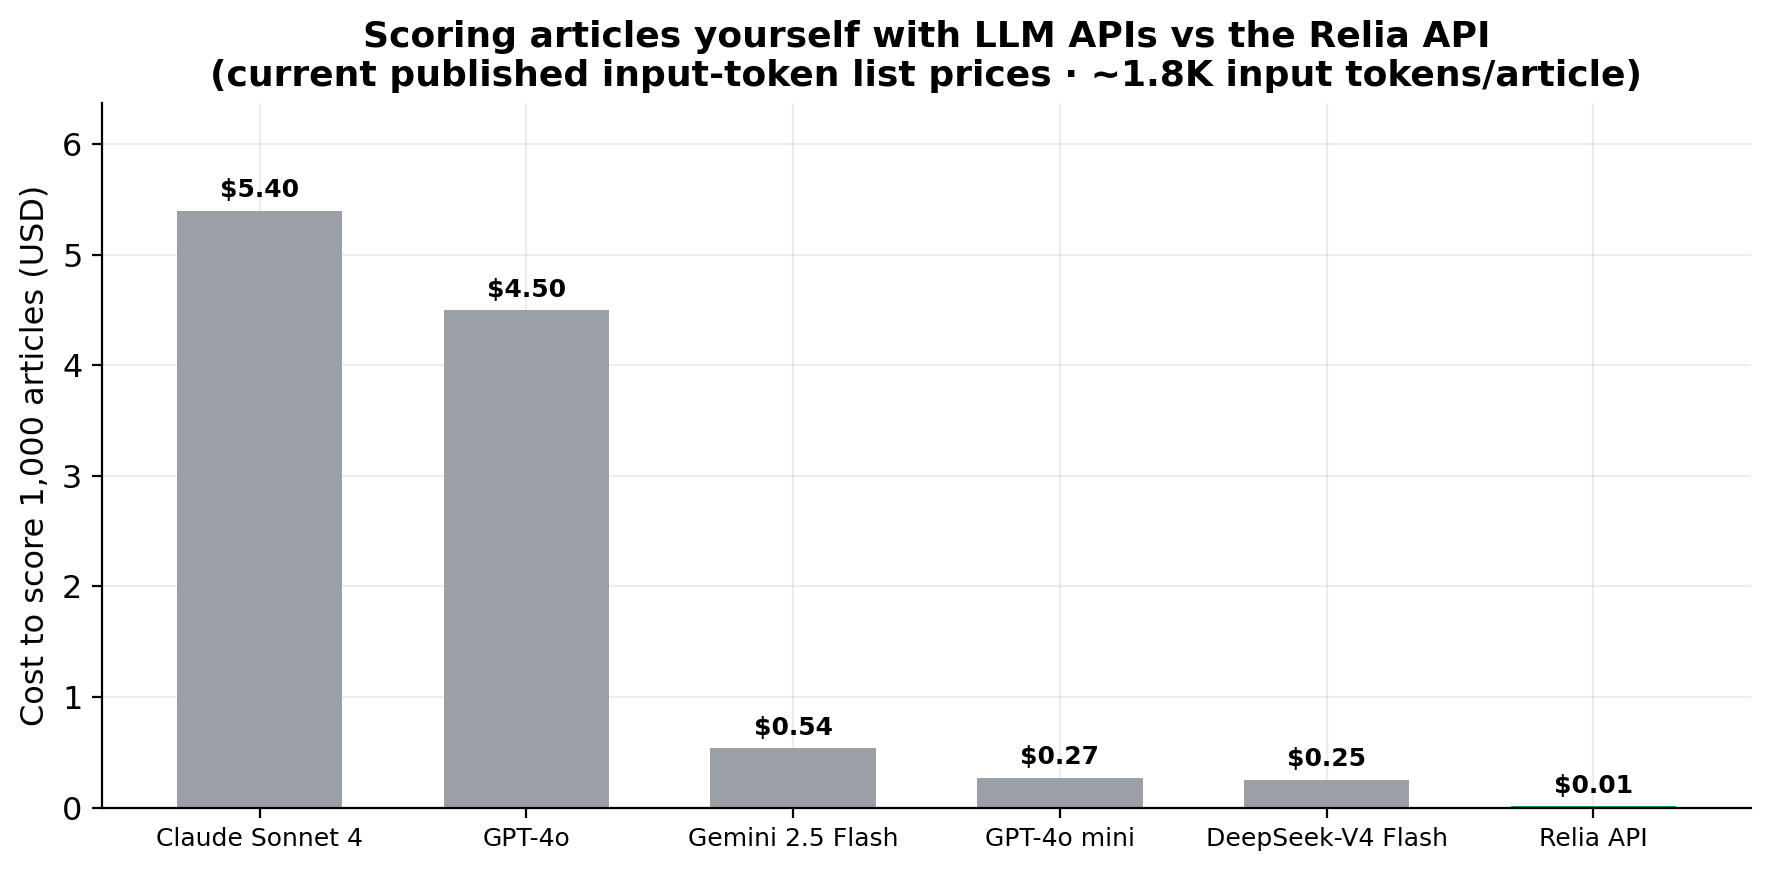
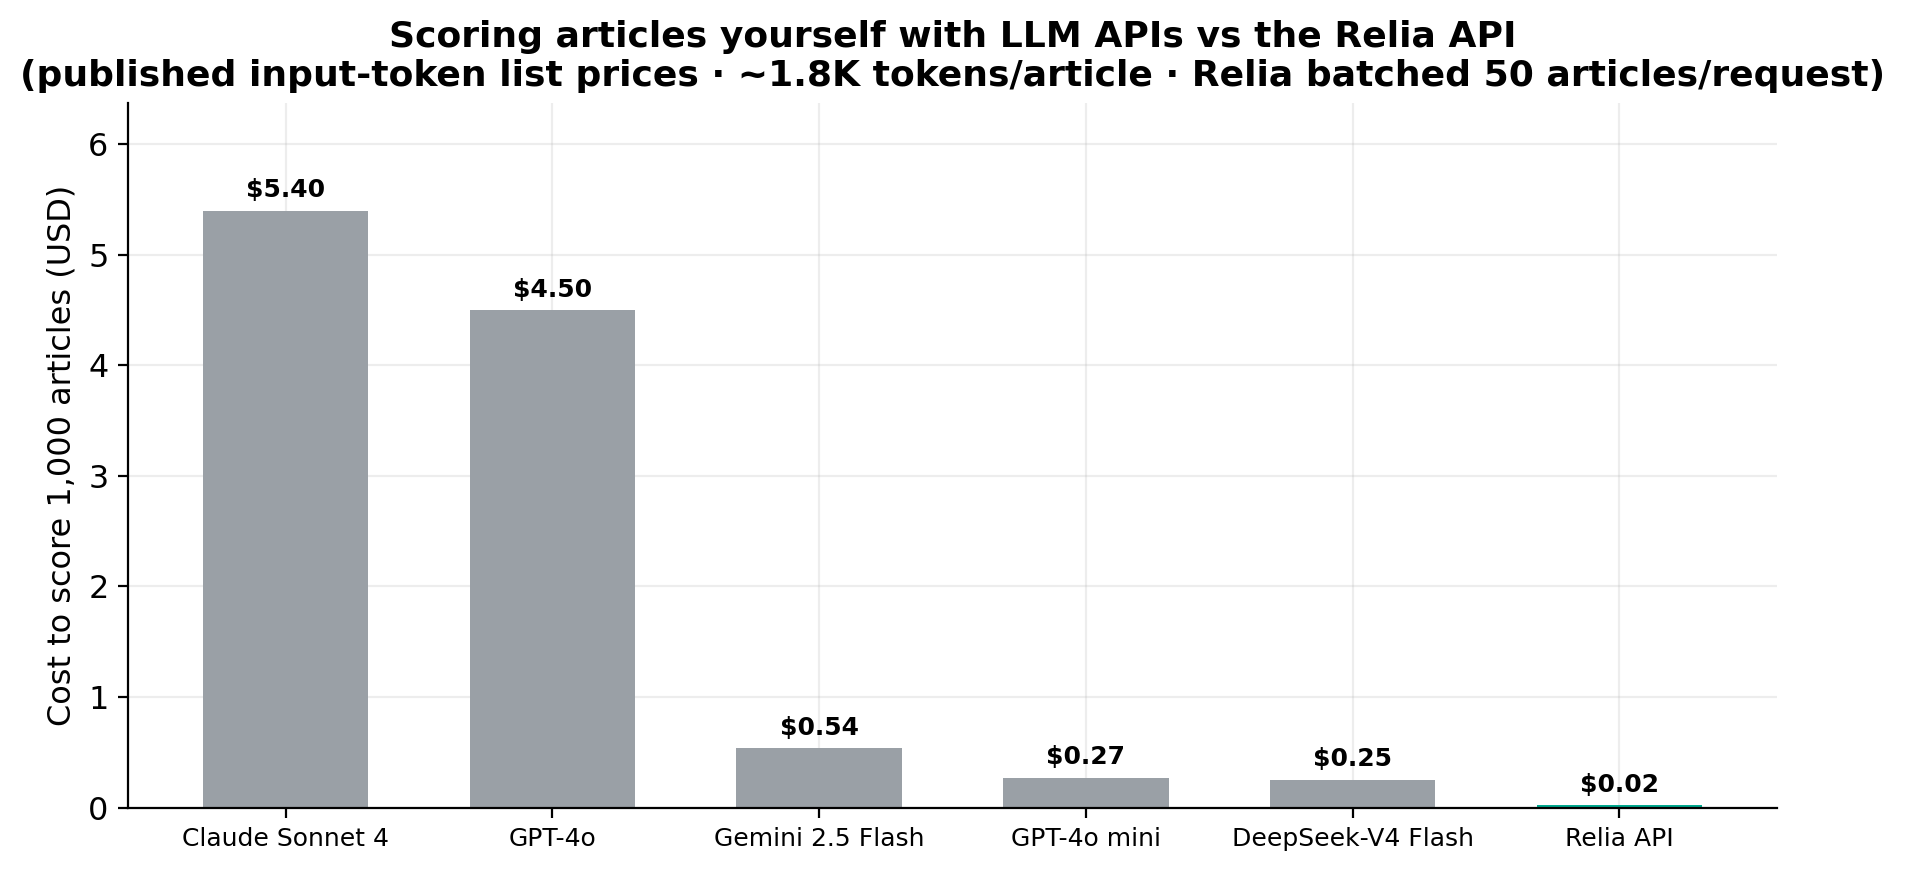
Set max articles per request to 50 and relabel cost chart
1 request = 1 entity + up to 50 articles (was 100). Cost chart now
states the batching assumption explicitly (Relia batched 50
articles/request) and shows $0.02 per 1,000 articles.

diff --git a/validation/make_charts.py b/validation/make_charts.py
@@ -163,8 +163,9 @@ def chart_cost():
     gem = price_in["Gemini 2.5 Flash"] * tok_millions     # 0.54
     mini = price_in["GPT-4o mini"] * tok_millions         # 0.27
     dsk = price_in["DeepSeek-V4 Flash"] * tok_millions    # 0.252
-    # Relia API: $1 / 1,000 requests, up to 100 articles/request => $0.01 / 1,000 articles
-    relia = 0.01
+    # Relia API: $1 / 1,000 requests, up to 50 articles/request => $0.02 / 1,000 articles
+    # (batched 50/request; a caller sending 1 article/request pays $1.00 / 1,000 articles)
+    relia = 0.02
 
     labels = ["Claude Sonnet 4", "GPT-4o", "Gemini 2.5 Flash", "GPT-4o mini",
               "DeepSeek-V4 Flash", "Relia API"]
@@ -183,7 +184,7 @@ def chart_cost():
     ax.set_xticklabels(labels, fontsize=9)
     ax.set_ylabel("Cost to score 1,000 articles (USD)")
     ax.set_title("Scoring articles yourself with LLM APIs vs the Relia API\n"
-                 "(current published input-token list prices · ~1.8K input tokens/article)",
+                 "(published input-token list prices · ~1.8K tokens/article · Relia batched 50 articles/request)",
                  fontweight="bold")
     ax.set_ylim(0, max(vals) * 1.18)
     fig.tight_layout()

diff --git a/docs/PRICING.md b/docs/PRICING.md
@@ -7,7 +7,7 @@ Relia is billed per request — simple and predictable.
 | | |
 |---|---|
 | **Price** | **$1 / 1,000 requests** |
-| **What's a request?** | 1 request = 1 entity + up to **100 articles**. No token chunking — long articles count as one. |
+| **What's a request?** | 1 request = 1 entity + up to **50 articles**. No token chunking — long articles count as one. |
 | **Free tier** | **2,000 requests free** — no time limit, no monthly reset. |
 | **After the free tier** | Top up anytime, prepaid. You only pay for what you use. |
 
@@ -19,9 +19,9 @@ with a `Retry-After` header indicating the seconds until the window resets.
 | Limit | Value |
 |---|---|
 | Requests / minute | 120 |
-| Articles / request | 100 |
+| Articles / request | 50 |
 
-- Batch multiple articles in a single `POST /v1/score` (up to 100) — it's both faster and
+- Batch multiple articles in a single `POST /v1/score` (up to 50) — it's both faster and
   counts as one request against the per-minute limit.
 - Need higher limits or volume pricing? [Contact the team](mailto:info@aletaindex.com).
 

diff --git a/README.md b/README.md
@@ -95,7 +95,7 @@ Full API reference: [`docs/API.md`](docs/API.md).
 
 ## Pricing & rate limits
 
-- **$1 per 1,000 requests** — 1 request = 1 entity + up to 100 articles.
+- **$1 per 1,000 requests** — 1 request = 1 entity + up to 50 articles.
 - **First 2,000 requests free**, no time limit.
 - **120 requests / minute** per API key.
 
